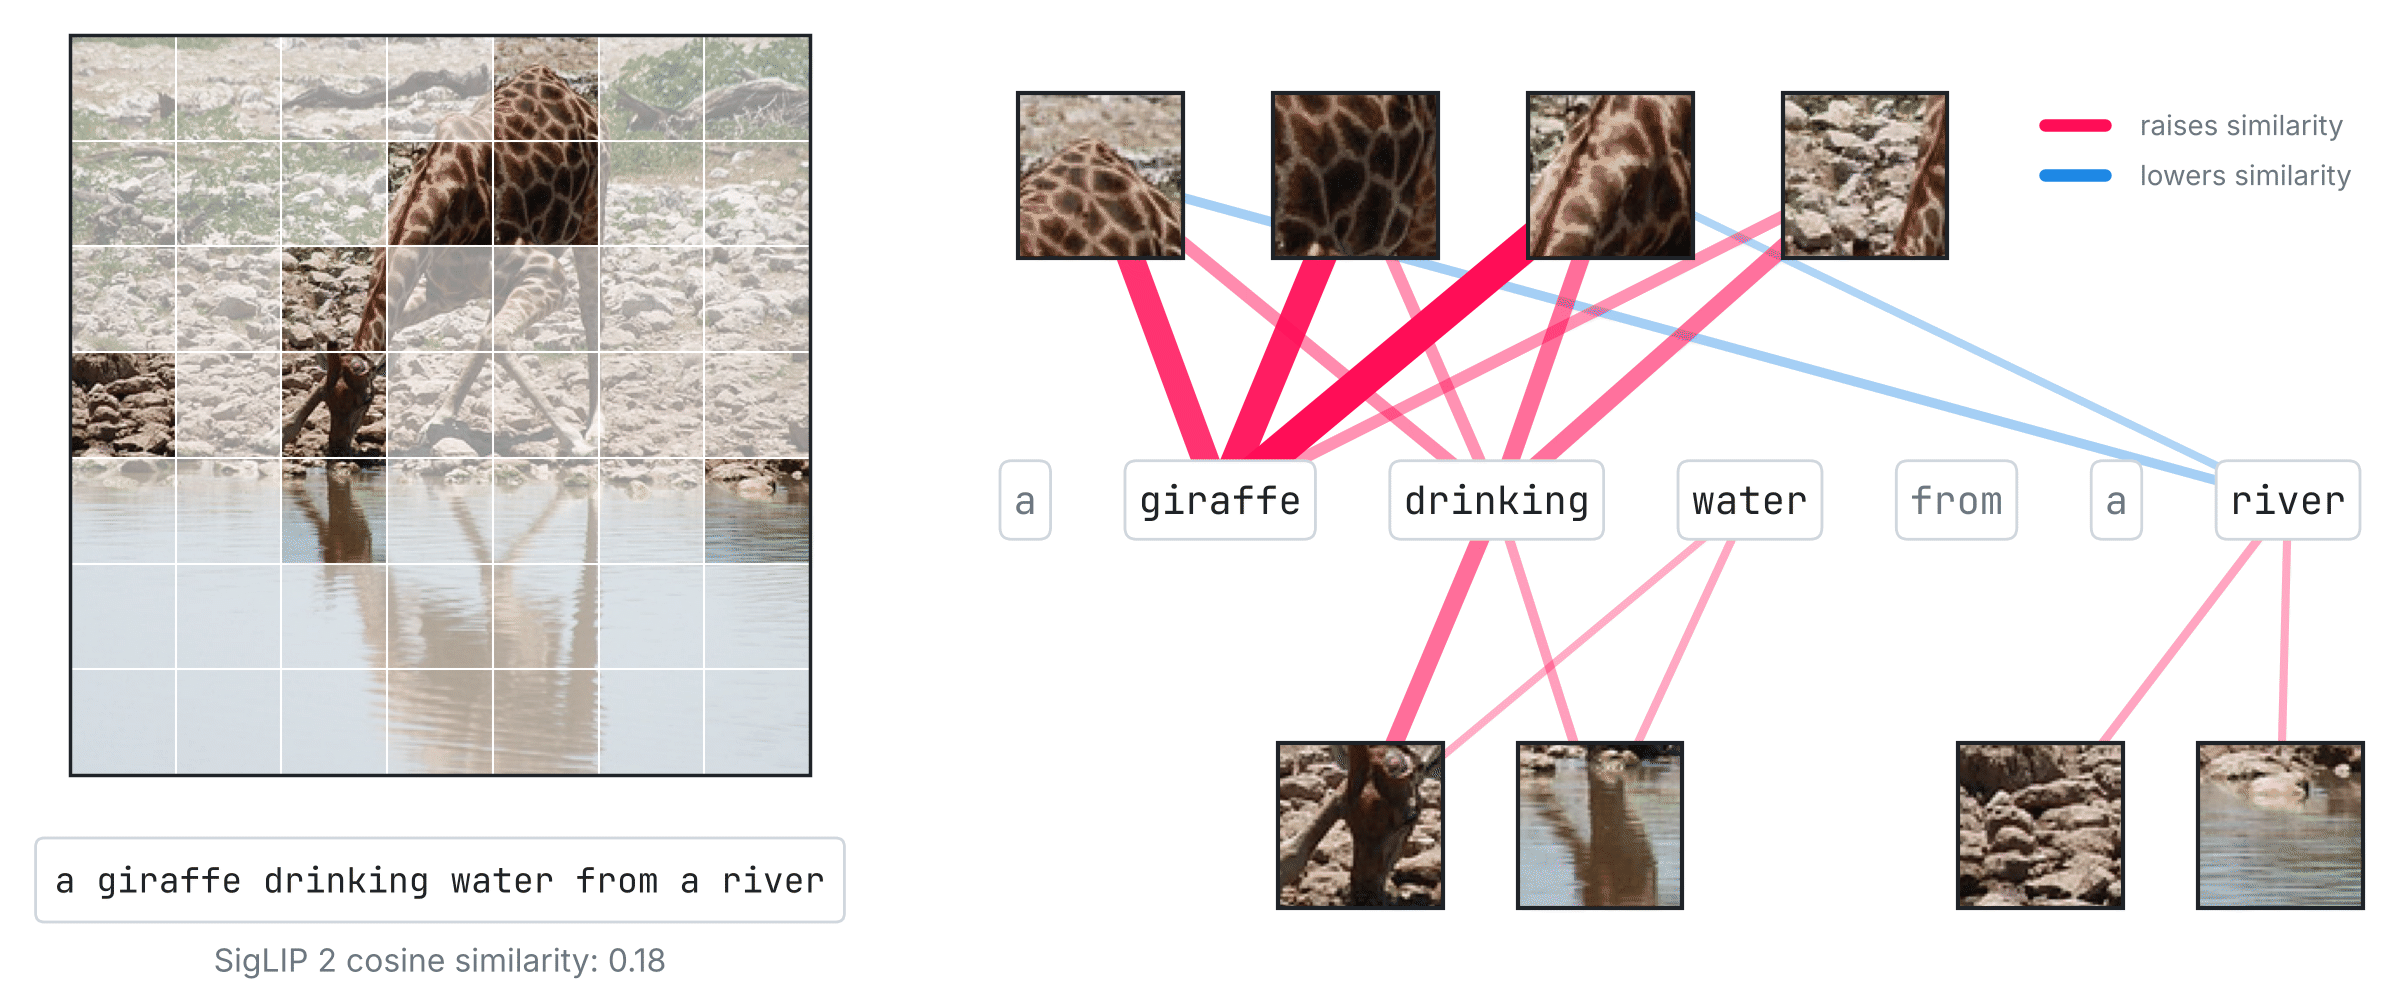
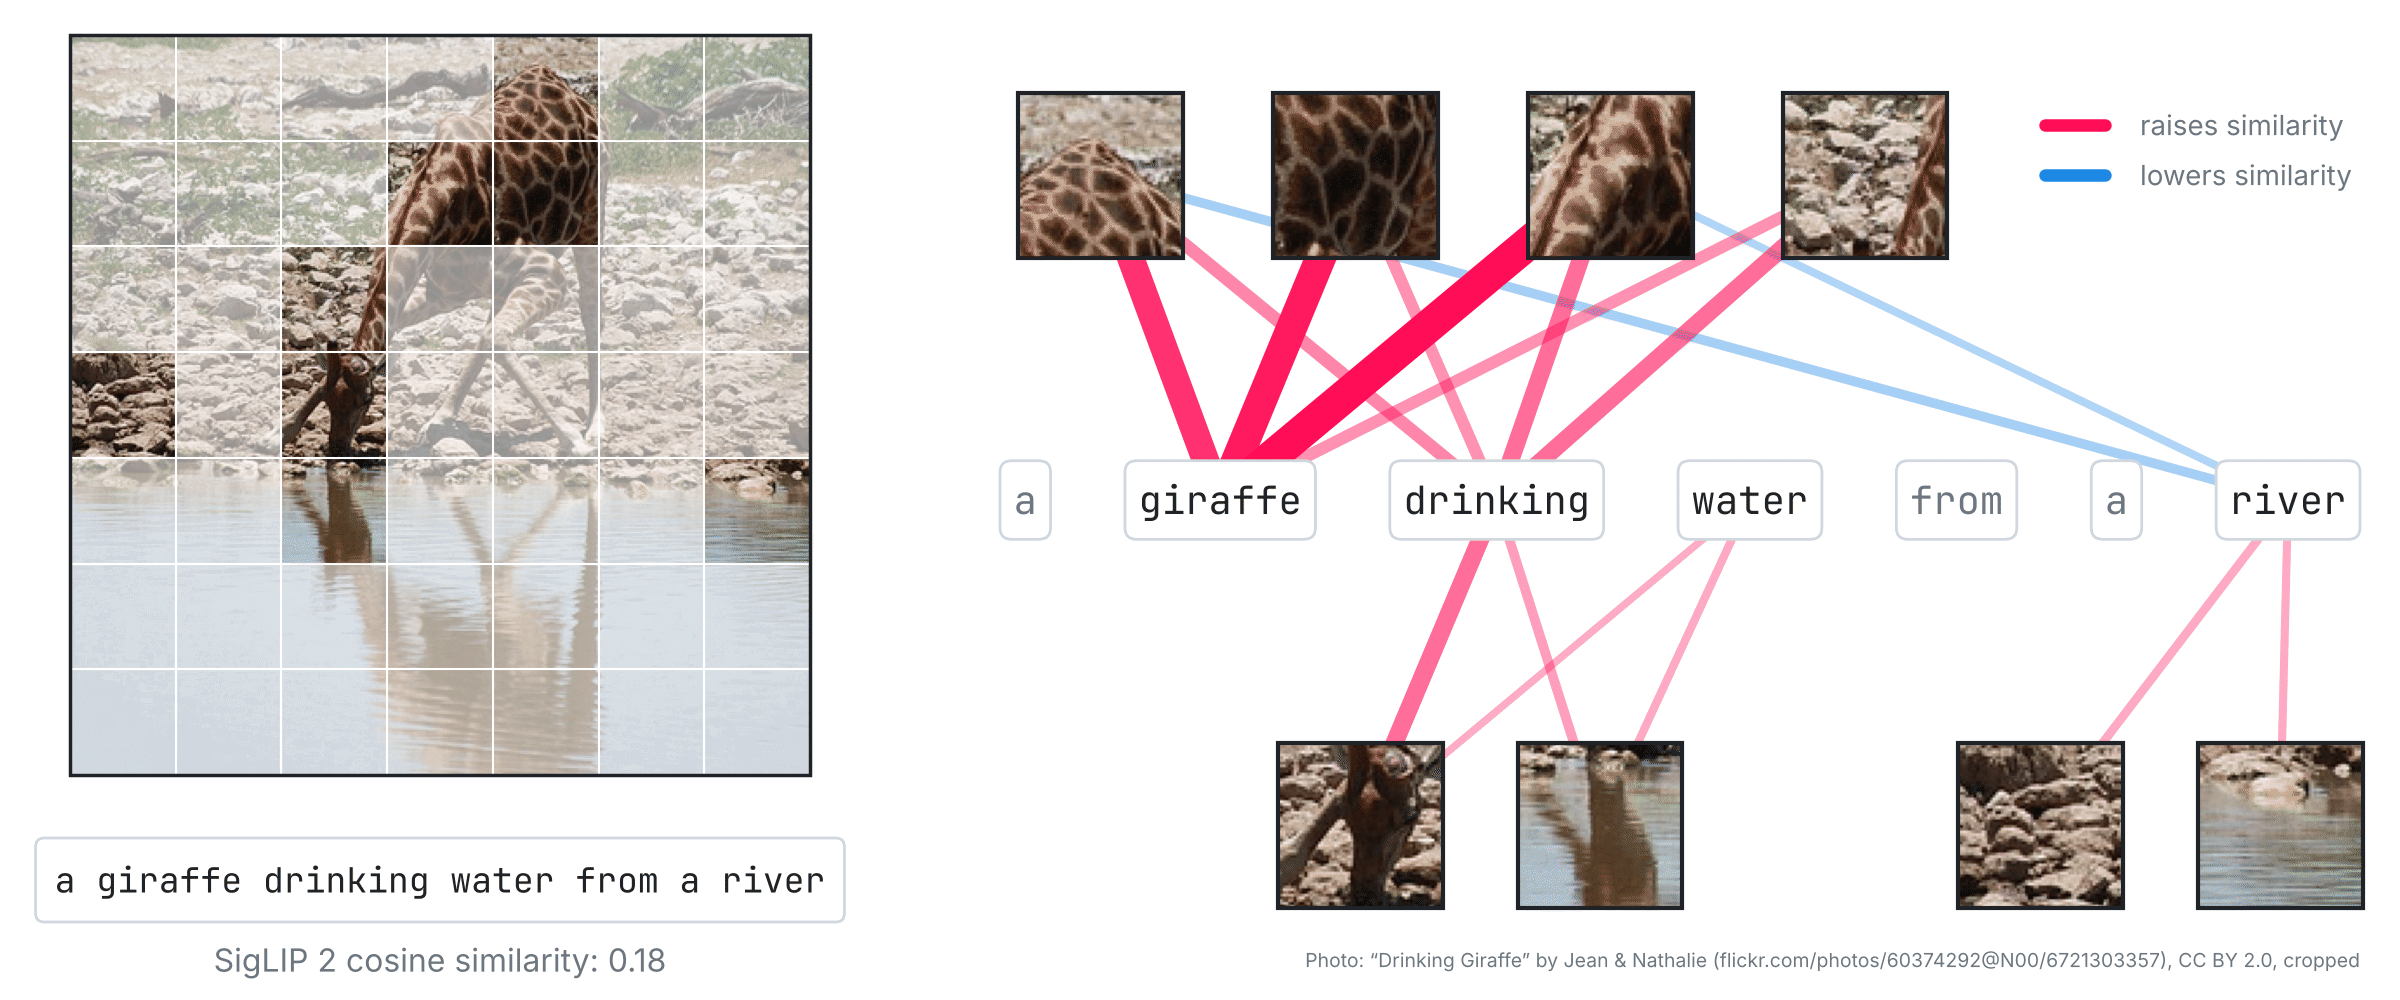
Docs: a shorter caption of the hero image, and its photo credit small in the image
The captions of the README and the landing page shrink to one sentence; the image's legend says
what red and blue mean. The credit that the photo's license (CC BY 2.0) asks for moves from the
captions into the bottom right corner of the image.

Claude-Session: https://claude.ai/code/session_015B1gqYeHh43j5BGPNaM9uG

diff --git a/docs/hero_siglip2.py b/docs/hero_siglip2.py
@@ -55,6 +55,10 @@ if TYPE_CHECKING:
 PHOTO_URL = "http://images.cocodataset.org/train2017/000000304605.jpg"
[1 lines of base64/hex data omitted]
 PHOTO_CROP = (0, 100, 426, 526)  # left, top, right, bottom: the giraffe and its reflection
+PHOTO_CREDIT = (
+    "Photo: \u201cDrinking Giraffe\u201d by Jean & Nathalie "
+    "(flickr.com/photos/60374292@N00/6721303357), CC BY 2.0, cropped"
+)
 TEXT = "a giraffe drinking water from a river"
 MODEL = "siglip2_vit_b16"
 GRID = (7, 7)
@@ -308,6 +312,8 @@ def draw(explanation: dict, photo: Image.Image, path: Path) -> None:
     for k, (color, label) in enumerate(((RED, "raises similarity"), (BLUE, "lowers similarity"))):
         ax.plot([20.45, 21.05], [8.75 - 0.5 * k] * 2, color=color.hex, lw=9, solid_capstyle="round")
         ax.text(21.4, 8.75 - 0.5 * k, label, ha="left", va="center", fontsize=20, color=MUTED)
+    # the attribution the license of the photo asks for, small in the bottom right corner
+    ax.text(23.6, 0.4, PHOTO_CREDIT, ha="right", va="center", fontsize=14, color=MUTED)
 
     buffer = io.BytesIO()
     fig.savefig(buffer, dpi=fig.dpi, facecolor="white")
@@ -339,7 +345,7 @@ def save_with_palette(image: Image.Image, path: Path) -> None:
     # the background becomes 253, 254, 254): snap the colors next to the drawing's onto them
     entries = np.array(quantized.getpalette(), dtype=float).reshape(-1, 3)
     for color in drawing:
-        entries[np.abs(entries - color).max(axis=1) <= 3] = color
+        entries[np.abs(entries - color).max(axis=1) <= 6] = color
     quantized.putpalette(entries.round().astype(int).flatten().tolist())
     quantized.save(path, optimize=True)
 

diff --git a/README.md b/README.md
@@ -20,11 +20,9 @@ Shapley Interaction Quantification (`shapiq`) is a Python package for (1) approx
 <p align="center">
   <img width="900px" src="https://raw.githubusercontent.com/mmschlk/shapiq/main/docs/source/_static/images/hero_siglip2.png" alt="A photo of a giraffe drinking at a river and the text 'a giraffe drinking water from a river', explained by a network of image regions and words, linked by the interactions that raise (red) or lower (blue) the similarity that SigLIP 2 assigns them">
 </p>
-<p align="center"><sub>
-Which words go with which parts of the image? The similarity of a photo and its caption in SigLIP 2, explained by weighted Banzhaf interactions between image regions and words, as in <a href="https://proceedings.neurips.cc/paper_files/paper/2025/hash/4e7686b7b147fac3352b24ab86ff78fb-Abstract-Conference.html">FIxLIP</a> (NeurIPS 2025).
-Red interactions raise the similarity, blue ones lower it.
-Photo: <a href="https://www.flickr.com/photos/60374292@N00/6721303357">"Drinking Giraffe"</a> by Jean &amp; Nathalie, <a href="https://creativecommons.org/licenses/by/2.0/">CC BY 2.0</a>, cropped.
-</sub></p>
+<p align="center">
+Which words go with which parts of the image? <code>shapiq</code> explains how well SigLIP 2 matches a photo and its caption by the interactions of image regions and words, as in <a href="https://proceedings.neurips.cc/paper_files/paper/2025/hash/4e7686b7b147fac3352b24ab86ff78fb-Abstract-Conference.html">FIxLIP</a> (NeurIPS 2025).
+</p>
 
 ## 🛠 Install
 `shapiq` is intended to work with **Python 3.12 and above** and is tested on Python 3.12 to 3.15.

diff --git a/docs/source/index.rst b/docs/source/index.rst
@@ -66,15 +66,9 @@ Shapley Interactions for Machine Learning
          river", explained by a network of image regions and words, linked by the interactions
          that raise (red) or lower (blue) the similarity that SigLIP 2 assigns them.
 
-   Which words go with which parts of the image? The vision-language model SigLIP 2 scores how
-   well a photo and a text match. ``shapiq`` explains the score by the interactions of its players,
-   the 49 regions of the image and the 7 words of the text, with weighted Banzhaf interactions as in
-   FIxLIP :cite:p:`Baniecki.2025`. A red edge joins a word and a region that raise the score
-   together, by more than each does alone; a blue edge joins a word and a region that lower it
-   together. "giraffe" goes with the giraffe's body, "drinking" with its bent neck, "water" with
-   its head at the water, and "river" with the bank. Photo: "Drinking Giraffe" by `Jean & Nathalie
-   <https://www.flickr.com/photos/60374292@N00/6721303357>`_, `CC BY 2.0
-   <https://creativecommons.org/licenses/by/2.0/>`_, cropped.
+   Which words go with which parts of the image? ``shapiq`` explains how well SigLIP 2 matches a
+   photo and its caption by the interactions of image regions and words, as in FIxLIP
+   :cite:p:`Baniecki.2025`.
 
 
 Install
